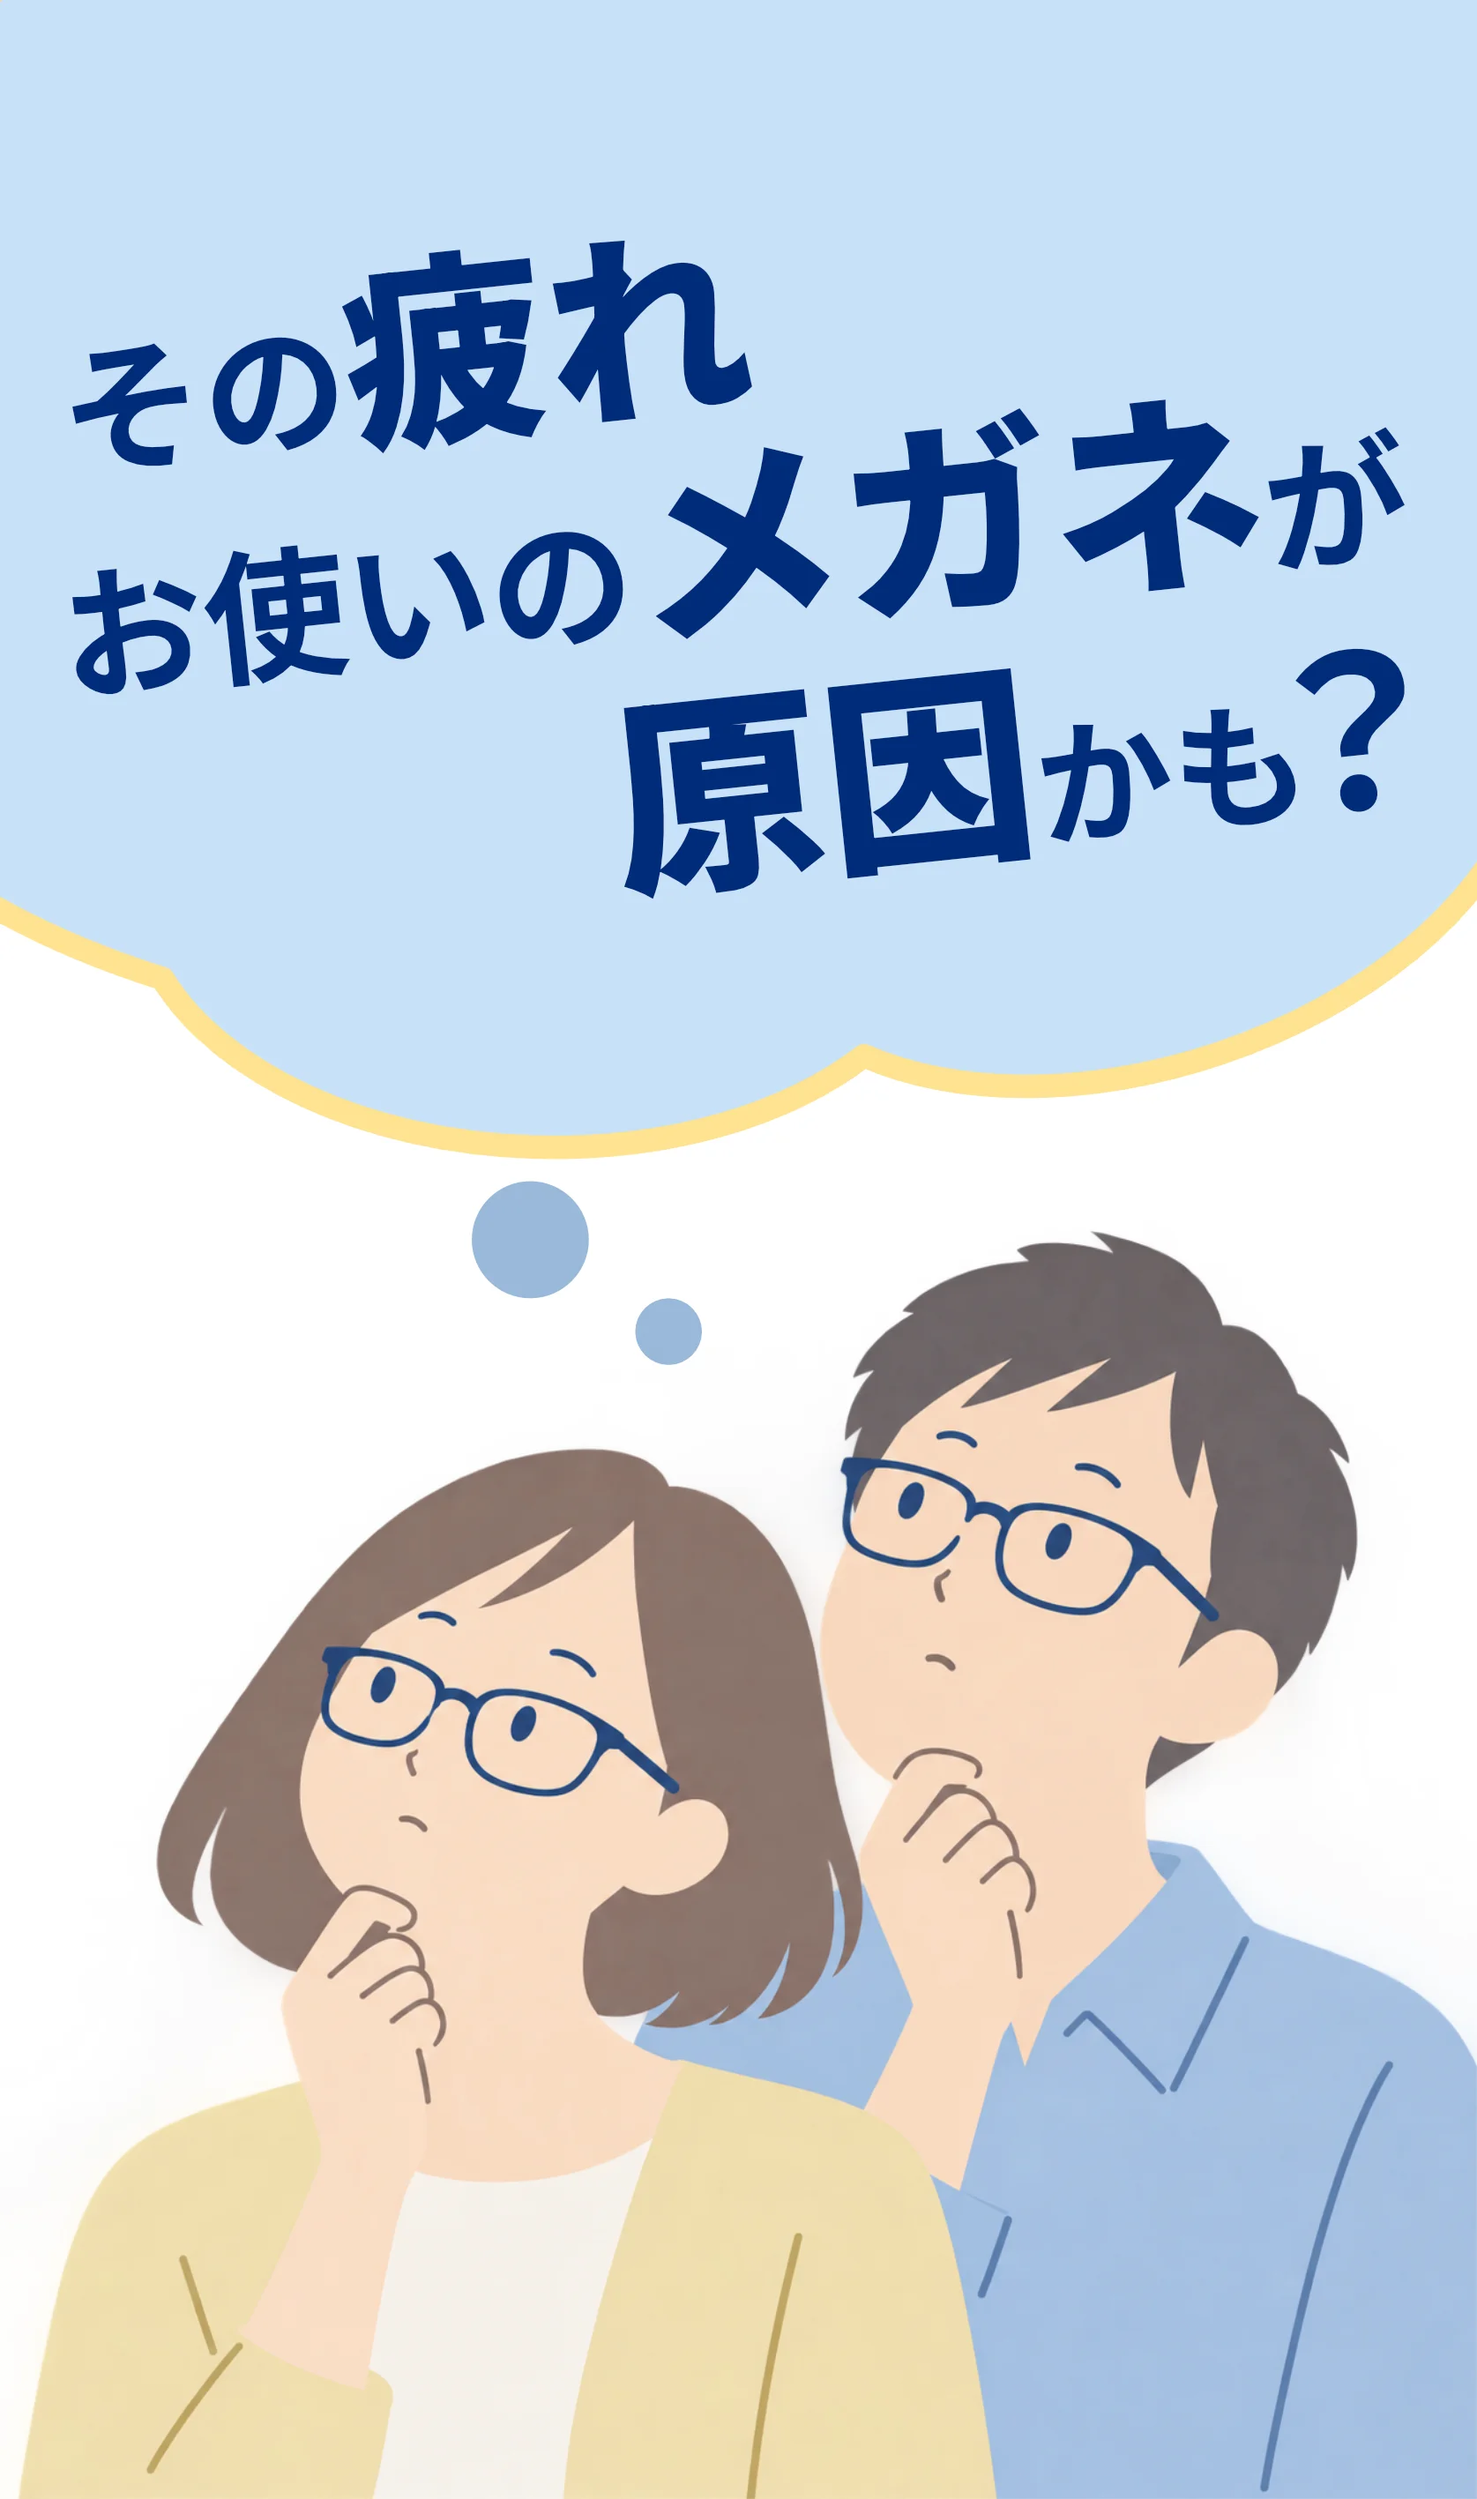
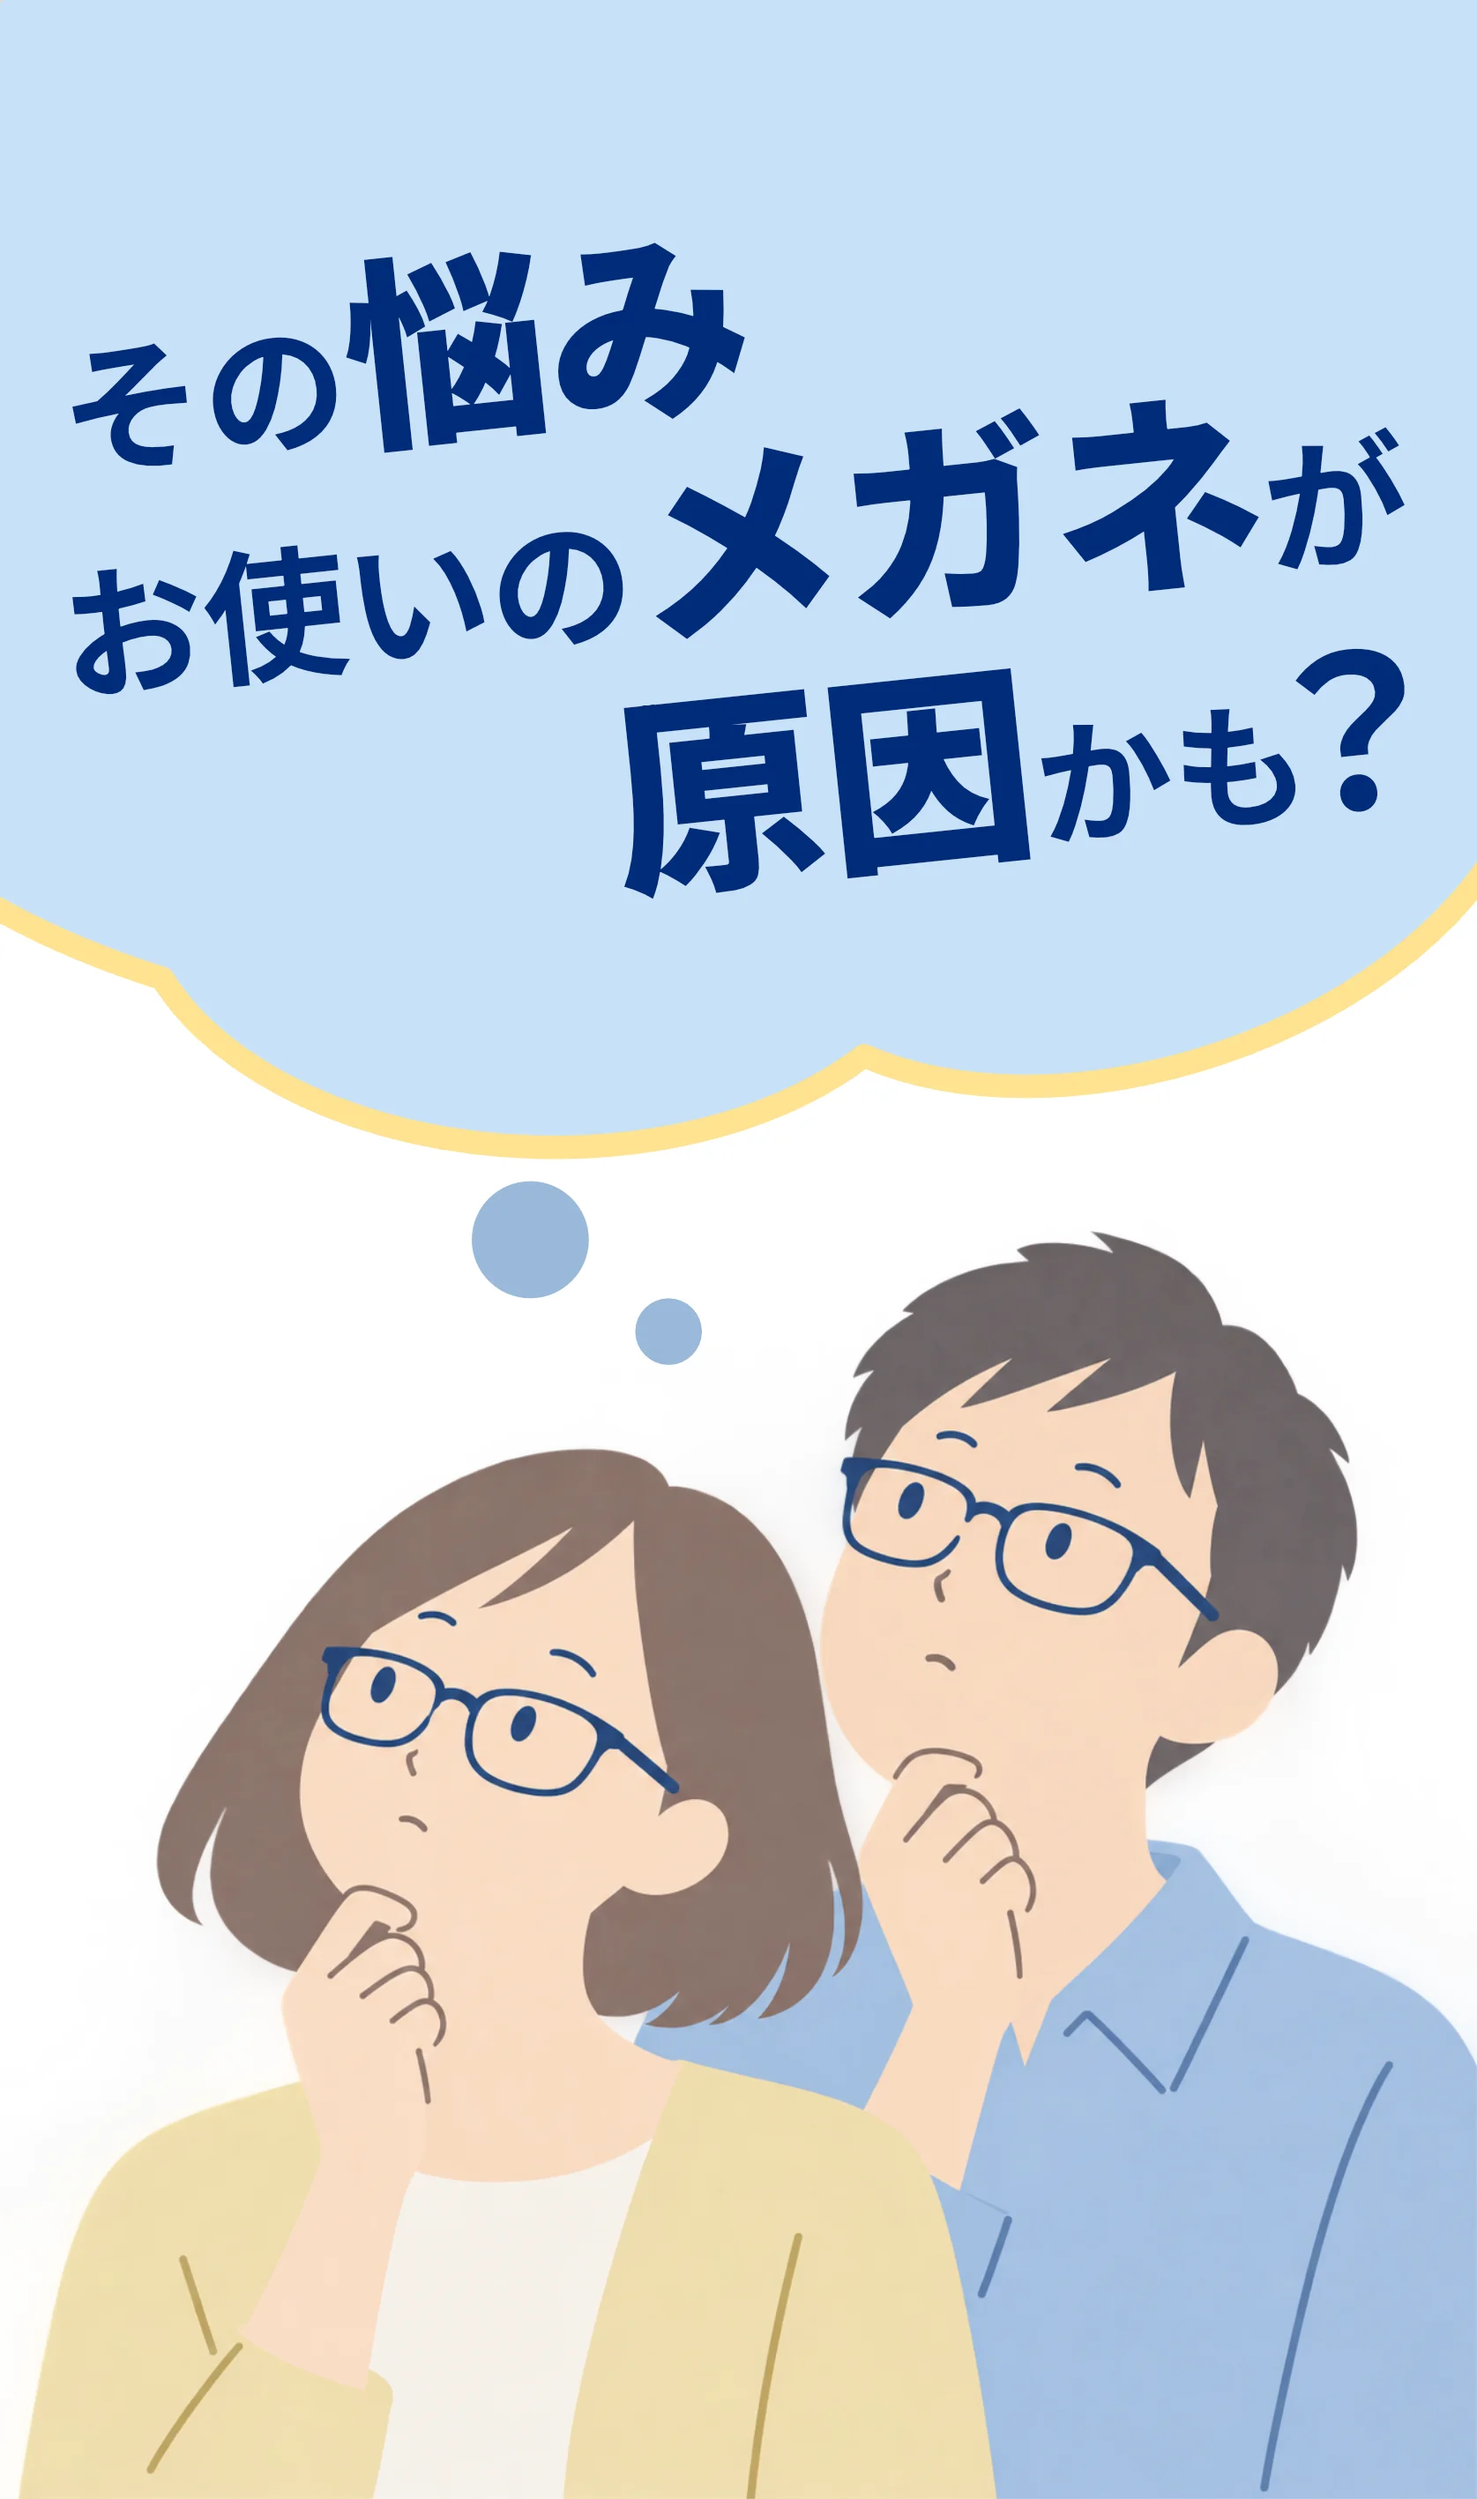
FVキャッチ: 「その疲れ」→「その悩み」に変更（画像・h1・WP版）

Changed region(s): [[0.2173, 0.0932, 0.5278, 0.1863]]

diff --git a/index.html b/index.html
@@ -1225,7 +1225,7 @@
     <section class="fv" id="sec-fv">
 
       <div class="fv-visual">
-        <h1 class="sr-only">その疲れ、お使いのメガネが原因かも？</h1>
+        <h1 class="sr-only">その悩み、お使いのメガネが原因かも？</h1>
         <img fetchpriority="high" src="img/fv-composite.webp" width="1675" height="2834" alt="メガネの不調に悩む男女のイラスト">
         <div class="fv-wave" aria-hidden="true">
           <svg viewBox="0 0 1440 100" preserveAspectRatio="none">

diff --git a/wp-deploy/page-lp-shitadori2026.php b/wp-deploy/page-lp-shitadori2026.php
@@ -1174,8 +1174,8 @@ $lp_assets = get_stylesheet_directory_uri() . '/lp/assets/shitadori2026/img';
     <section class="fv" id="sec-fv">
 
       <div class="fv-visual">
-        <h1 class="sr-only">その疲れ、お使いのメガネが原因かも？</h1>
-        <img fetchpriority="high" src="<?php echo $lp_assets; ?>/fv-composite.webp?v=f2a50005" width="1675" height="2834" alt="メガネの不調に悩む男女のイラスト">
+        <h1 class="sr-only">その悩み、お使いのメガネが原因かも？</h1>
+        <img fetchpriority="high" src="<?php echo $lp_assets; ?>/fv-composite.webp?v=cf9e8fba" width="1675" height="2834" alt="メガネの不調に悩む男女のイラスト">
         <div class="fv-wave" aria-hidden="true">
           <svg viewBox="0 0 1440 100" preserveAspectRatio="none">
             <path d="M0,40 C240,90 480,0 720,30 C960,60 1200,10 1440,50 L1440,100 L0,100 Z" fill="#A3C0E0"></path>
